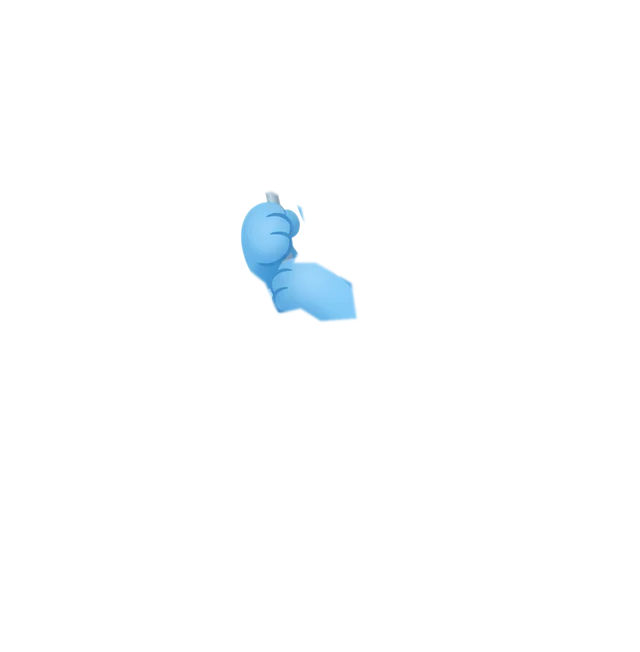
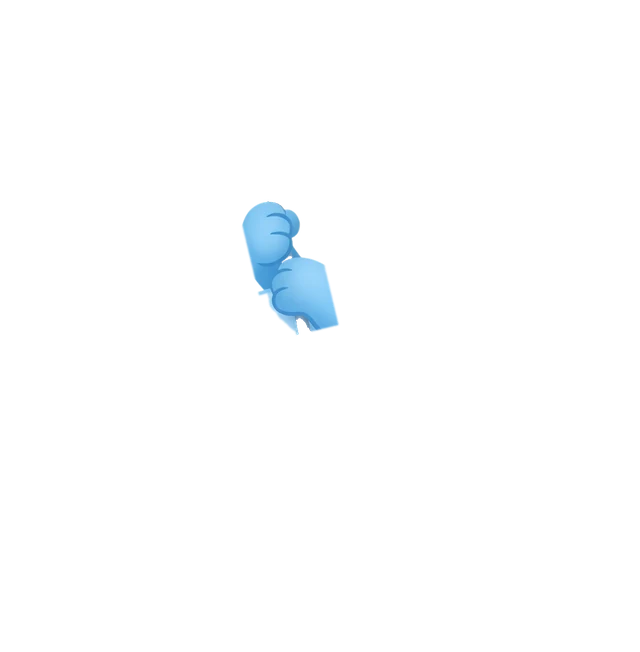
Look back at past questions, cleaner art, phone fixes, no tone quiz
- A back arrow in lessons pages through every finished question as it
  was answered (read-only, speakers still play). Continue walks forward
  again to the live question. Hidden during the speed round.
- Pressing Continue stops any reading still going, so the last answer
  never talks over the next question.
- Removed the "Which tones do you hear?" questions. Tone numbers stay.
- Professor Wunny: no flat line or specks under the chin, and the apple
  arm fades into the shoulder instead of a hard cut. Gentler sway, no
  vertical stretching.
- Flag Wunny: the pole is one clean rod that never splits; only the
  fingers sit over it. The foot no longer moves on its own.
- Gradient words get room for the last letter, so nothing is cut off.
- Detective Wunny sits fully inside the listening card, top left.
- "Show the words" uses the same pill style as the other buttons.
- Speed round: space between the word and the answer buttons.
- Phone: the top bar stays on one row with centred icons; animated
  pictures size from a padding box and images never stretch.

Claude-Session: https://claude.ai/code/session_01Q1QEh8XSev9G2LzzccykJW

diff --git a/public/index.html b/public/index.html
@@ -617,29 +617,27 @@ dialog[open]{animation:rise .25s ease both}
 
 /* Animated Wunny rigs: every layer is the same size, so each pivot is a point in the picture */
 .rig{position:relative;flex:none}
+/* height comes from a padding box (works in every browser, never stretches) */
+.rig::before{content:"";display:block;padding-top:var(--ratio)}
 .rig>img,.rig>div,.rig>div>img,.rig>div>div,.rig>div>div>img,.rig canvas{position:absolute;inset:0;width:100%;height:100%}
 .rig img{max-width:none;pointer-events:none;user-select:none;-webkit-user-drag:none}
-.rig-prof{aspect-ratio:647/743}
-.rig-prof{transform-origin:50% 100%;animation:profBreathe 3.4s ease-in-out infinite}
+.rig-prof{--ratio:114.84%}
 .rig-prof .p-head{transform-origin:53.4% 59.6%;animation:profHead 6.8s ease-in-out infinite}
 .rig-prof .p-arm{transform-origin:37.2% 65%;animation:profArm 3.4s ease-in-out infinite}
-@keyframes profBreathe{0%,100%{transform:none}50%{transform:scale(1.012,1.018)}}
-@keyframes profHead{0%,100%{transform:rotate(0)}22%{transform:rotate(-2.2deg)}48%{transform:rotate(-.4deg)}72%{transform:rotate(2deg)}}
+@keyframes profHead{0%,100%{transform:rotate(0)}22%{transform:rotate(-1.6deg)}48%{transform:rotate(-.3deg)}72%{transform:rotate(1.5deg)}}
 /* idle NPC: the apple dips, bobs back up and settles */
-@keyframes profArm{0%,100%{transform:rotate(0)}38%{transform:rotate(-3.4deg)}58%{transform:rotate(-2.6deg)}70%{transform:rotate(-3deg)}88%{transform:rotate(.4deg)}}
-.rig-kf{aspect-ratio:640/1024}
+@keyframes profArm{0%,100%{transform:rotate(0)}38%{transform:rotate(-2.4deg)}58%{transform:rotate(-1.7deg)}70%{transform:rotate(-2.1deg)}88%{transform:rotate(.2deg)}}
+.rig-kf{--ratio:160%}
 .rig-kf .k-sway{transform-origin:49.8% 76.9%;animation:kfWobble 3.9s ease-in-out infinite}
 .rig-kf .k-arms{transform-origin:40.8% 46.6%;animation:kfArms 1.9s ease-in-out infinite}
 @keyframes kfWobble{0%,100%{transform:rotate(0)}14%{transform:rotate(-2.6deg)}27%{transform:rotate(1.2deg)}38%{transform:rotate(-.9deg)}
   55%{transform:rotate(3deg)}68%{transform:rotate(-1.4deg)}80%{transform:rotate(1.6deg)}90%{transform:rotate(-.5deg)}}
 @keyframes kfArms{0%,100%{transform:none}30%{transform:rotate(-1.6deg) translateY(-.5%)}62%{transform:rotate(1.2deg) translateY(.3%)}}
-.rig-flag{aspect-ratio:640/652}
+.rig-flag{--ratio:101.88%}
 .rig-flag .f-rock{transform-origin:54.8% 58.8%;animation:flRock 4.6s ease-in-out infinite}
-.rig-flag .f-foot{transform-origin:25.9% 51.1%;animation:flKick 1.7s ease-in-out infinite}
 .rig-flag .f-wave{transform-origin:44.2% 41.1%;animation:flWave 1.5s ease-in-out infinite alternate}
 @keyframes flRock{0%,100%{transform:rotate(-2.6deg)}50%{transform:rotate(2.8deg) translateY(-1%)}}
-@keyframes flKick{0%,100%{transform:rotate(0)}35%{transform:rotate(-8deg)}60%{transform:rotate(2deg)}80%{transform:rotate(-3deg)}}
-@keyframes flWave{from{transform:rotate(-7deg)}to{transform:rotate(5deg)}}
+@keyframes flWave{from{transform:rotate(-6deg)}to{transform:rotate(5deg)}}
 .startcard .rig.art,.done-art.rig,.today .rig.side{animation:none}
 .startcard .rig-kf.art{width:118px;justify-self:center}
 .done-art.rig-kf{width:150px}
@@ -647,6 +645,53 @@ dialog[open]{animation:rise .25s ease both}
 .today .side.rig-flag{width:170px;right:6px;bottom:10px}
 .today.rest:has(.rig-flag){padding-right:180px}
 @media (max-width:520px){.startcard .rig-kf.art{width:100px}.today.rest:has(.rig-flag){padding-right:20px;padding-bottom:160px}}
+
+/* gradient words: room for the last letter's overhang and descenders, so nothing is clipped */
+.g,.brand b{padding:0 .12em .1em 0;margin-right:-.12em;-webkit-box-decoration-break:clone;box-decoration-break:clone}
+.brand b{margin-right:0}
+
+/* images never stretch, whatever box they sit in */
+img{height:auto}
+.startcard .art,.ctx-art,.done-art,.note img,.today .side,.contact-side img,.card-form.sent img{align-self:center}
+
+/* top bar on phones: one tidy row, icons centred */
+.icon-btn{flex:none;padding:0;line-height:0}
+.icon-btn svg{display:block;margin:auto}
+.chip{flex:none}
+@media (max-width:520px){
+  .top .wrap{flex-wrap:nowrap;gap:8px;padding-block:12px}
+  .brand{gap:8px;min-width:0}
+  .brand img{width:38px;height:38px;border-radius:12px}
+  .brand b{font-size:20px}
+  .chip{padding:5px 10px;font-size:14px;gap:5px}
+  .chip small{font-size:11px}
+  .icon-btn{width:38px;height:38px}
+  .icon-btn svg{width:19px;height:19px}
+}
+@media (max-width:359px){.brand b{display:none}}
+
+/* listening card: Wunny the detective sits fully inside the card, top left */
+.listen .det{left:16px;top:16px;bottom:auto;width:76px;opacity:1}
+@media (max-width:520px){.listen .det{left:10px;top:12px;width:60px}}
+
+/* "Show the words" matches the other small buttons */
+.listen [data-reveal]{display:inline-flex;align-items:center;gap:8px;min-height:38px;padding:0 16px;border-radius:999px;border:1.5px solid var(--line-2);background:#fff;
+  color:var(--blue-d);font:inherit;font-weight:650;font-size:14px;box-shadow:0 2px 0 var(--line-2);cursor:pointer;text-decoration:none}
+.listen [data-reveal]:active{transform:translateY(2px);box-shadow:none}
+.listen [data-reveal] svg{width:16px;height:16px}
+
+/* speed round: breathing room between the word and the answers */
+#spQ{display:flex;flex-direction:column;gap:16px;margin-top:6px}
+#spQ .sp-prompt{margin-bottom:4px}
+
+/* looking back at earlier questions */
+.lhead .wrap{gap:10px}
+#backQ svg{width:20px;height:20px}
+#stage.review .opt,#stage.review .tile,#stage.review .mt,#stage.review [data-tile],#stage.review [data-ml],#stage.review [data-mr],#stage.review [data-reveal]{pointer-events:none}
+#stage.review .wrap>*{animation:none}
+.lookback{display:flex;align-items:center;gap:10px;flex-wrap:wrap}
+.lookback .pill{background:#fff7e6;border-color:#f3cf86;color:#8a5a00}
+.lookback .pill .dot{background:#f2a516;box-shadow:0 0 0 4px rgba(242,165,22,.2)}
 
 /* volume sliders */
 .vol-row{display:grid;grid-template-columns:minmax(0,1fr) 46px;align-items:center;gap:4px 12px;padding:10px 0;border-bottom:1px solid var(--line)}
@@ -669,6 +714,7 @@ dialog[open]{animation:rise .25s ease both}
 
 <section id="lesson" class="view" hidden>
   <header class="lhead"><div class="wrap">
+    <button class="icon-btn" id="backQ" type="button" aria-label="Look back at the previous question" title="Previous question" hidden><svg viewBox="0 0 24 24" fill="none" stroke="currentColor" stroke-width="2.4" stroke-linecap="round" stroke-linejoin="round"><path d="M15 5l-7 7 7 7"/></svg></button>
     <button class="icon-btn" id="quit" type="button" aria-label="Quit lesson"><svg viewBox="0 0 24 24" fill="none" stroke="currentColor" stroke-width="2.4" stroke-linecap="round"><path d="M6 6l12 12M18 6L6 18"/></svg></button>
     <div class="prog" id="prog" role="progressbar" aria-label="Lesson progress" aria-valuemin="0" aria-valuemax="100" aria-valuenow="0"><span></span></div>
     <div class="combo" id="combo" aria-live="polite"></div>
@@ -847,7 +893,7 @@ const profRig = (cls="") => `<div class="rig rig-prof ${cls}" role="img" aria-la
 const kungfuRig = (cls="") => `<div class="rig rig-kf ${cls}" role="img" aria-label="Wunny in a yellow kung fu shirt, balancing on a wooden post with nunchucks">
   ${rigImg("kungfu-stick","k-stick")}<div class="k-sway">${rigImg("kungfu-body","k-body")}${rigImg("kungfu-arms","k-arms")}</div></div>`;
 const flagRig = (cls="") => `<div class="rig rig-flag ${cls}" role="img" aria-label="Wunny rolling on his back, waving a Hong Kong flag">
-  <div class="f-rock">${rigImg("flag-foot","f-foot")}${rigImg("flag-body","f-body")}<div class="f-wave">${rigImg("flag-pole","f-pole")}<canvas class="f-cloth" aria-hidden="true"></canvas></div>${rigImg("flag-hands","f-hands")}</div></div>`;
+  <div class="f-rock">${rigImg("flag-body","f-body")}<div class="f-wave">${rigImg("flag-pole","f-pole")}<canvas class="f-cloth" aria-hidden="true"></canvas></div>${rigImg("flag-hands","f-hands")}</div></div>`;
 
 /* The flag cloth ripples: the picture is redrawn in thin upright strips, each nudged up or down along a travelling wave.
    Strips near the pole hardly move; the free end moves most. */
@@ -859,14 +905,14 @@ function flagLoop(){
   if(!FLAG.img){ FLAG.img = new Image(); FLAG.img.onload = ()=>{ FLAG.ready = true; flagLoop(); }; FLAG.img.src = "art/flag-cloth.webp"; return; }
   if(!FLAG.ready) return;
   const still = calm(), t = performance.now()/1000, im = FLAG.img, IW = im.naturalWidth, IH = im.naturalHeight;
-  const POLE = .41*IW, FREE = .04*IW, STEP = 3;
+  const POLE = .372*IW, FREE = .049*IW, END = .45*IW, STEP = 3;
   cs.forEach(c=>{
     const r = c.getBoundingClientRect(); if(!r.width) return;
     const dpr = Math.min(2, window.devicePixelRatio||1), W = Math.round(r.width*dpr), H = Math.round(r.height*dpr);
     if(c.width!==W || c.height!==H){ c.width = W; c.height = H; }
     const x = c.getContext("2d"), k = W/IW;
     x.clearRect(0,0,W,H);
-    for(let sx=Math.floor(FREE)-6; sx<POLE+8; sx+=STEP){
+    for(let sx=Math.floor(FREE)-6; sx<END; sx+=STEP){
       const d = Math.max(0, Math.min(1, (POLE-sx)/(POLE-FREE)));
       const ph = d*5.2 - t*6.2;
       const dy = still ? 0 : Math.sin(ph) * d * IH*.016;
@@ -874,7 +920,7 @@ function flagLoop(){
     }
     if(!still){   // soft light and shade in the folds
       x.globalCompositeOperation = "source-atop";
-      for(let sx=Math.floor(FREE)-6; sx<POLE+8; sx+=STEP){
+      for(let sx=Math.floor(FREE)-6; sx<END; sx+=STEP){
         const d = Math.max(0, Math.min(1, (POLE-sx)/(POLE-FREE))), s = Math.cos(d*5.2 - t*6.2) * d;
         x.fillStyle = s > 0 ? `rgba(255,255,255,${(s*.13).toFixed(3)})` : `rgba(60,0,0,${(-s*.16).toFixed(3)})`;
         x.fillRect(sx*k, 0, STEP*k+.6, H);
@@ -1386,10 +1432,9 @@ function buildSteps(L, mode){
   const mid = mode==="new" ? [{t:"match", items:it}] : [];
   return s.concat(mid, spread(pr), [{t:"speed"}]);
 }
-// Tone training, sentence listening and sentence building, using only this lesson's words.
+// Sentence listening and sentence building, using only this lesson's words.
 function extras(it){
   const out = [];
-  shuffle(it.filter(toneable)).slice(0,3).forEach(x=>out.push({t:"tone", it:x}));
   shuffle(it).slice(0,2).forEach(x=>out.push({t:"sentence", it:x}));
   shuffle(it.filter(buildable)).slice(0,2).forEach(x=>out.push({t:"build", it:x}));
   return out;
@@ -1398,7 +1443,7 @@ function extras(it){
 function startLesson(i, mode){
   const L = ALL[i];
   $("#combo").textContent = "";
-  Q = {L, mode, steps:buildSteps(L,mode), i:0, sel:null, checked:false, good:0, graded:0, combo:0, xp:0, retries:{}, fixAnnounced:false, t0:Date.now()};
+  Q = {L, mode, steps:buildSteps(L,mode), i:0, hist:[], view:null, live:null, sel:null, checked:false, good:0, graded:0, combo:0, xp:0, retries:{}, fixAnnounced:false, t0:Date.now()};
   audioCtx();
   if(V.ok){ try{ speechSynthesis.cancel(); }catch(e){} }
   try{ AUD.pause(); }catch(e){}
@@ -1445,6 +1490,7 @@ function resetBar(){
 function renderStep(){
   const st = cur(), it = st.it, L = Q.L;
   Q.sel = null; Q.checked = false;
+  $("#stage").classList.remove("review");
   setProgress(); resetBar();
   const tag = st.retry ? "Fix a mistake" : st.review ? "Quick review" : st.t==="tone" ? "Tone training" : st.t==="build" ? "Build the sentence" : st.t==="sentence" ? "Sentence listening" : null;
   const tagH = tag ? `<span class="pill"><span class="dot"></span>${tag}</span>` : "";
@@ -1527,10 +1573,12 @@ function renderStep(){
   const p = $("#primary"); p.textContent = primary; p.disabled = needSel;
   const hd = stage.querySelector(".qh"); if(hd){ hd.tabIndex = -1; hd.focus({preventScroll:true}); }
   if(say) speak(say, false, stage.querySelector(".main"));
+  backState();
 }
 
 function select(k){
   const st0 = Q && cur(); if(!st0) return;
+  if(Q.view!=null) return;
   if(st0.t==="speed") return speedPick(k);
   if(Q.checked) return;
   const st = st0; if(!st.opts || !st.opts[k]) return;
@@ -1557,7 +1605,7 @@ function check(){
   if(st.t==="context"){ const s = $("#sent .szh"); if(s) s.innerHTML = fullSentence(it); const j = $("#sent .sjp"); if(j){ j.innerHTML = jpHTML(it.ex.jp); j.hidden = false; } }
   if(st.t==="sentence"){ const r = $("#reveal"); if(r) r.hidden = false; const rb = $("[data-reveal]"); if(rb) rb.hidden = true; }
   showFeedback(ok, it);
-  setTimeout(()=>speak(st.t==="context" || st.t==="sentence" ? it.ex.zh : it.zh), 380);
+  clearTimeout(Q.sayT); Q.sayT = setTimeout(()=>speak(st.t==="context" || st.t==="sentence" ? it.ex.zh : it.zh), 380);
 }
 
 function showFeedback(ok, it, custom, line2){
@@ -1572,6 +1620,7 @@ function showFeedback(ok, it, custom, line2){
 
 function onPrimary(){
   if(!Q) return;
+  if(Q.view!=null) return lookForward();
   const st = cur();
   if(st.t==="start" || st.t==="intro") return next();
   if(st.t==="speed") return Q.checked ? next() : speedStart();
@@ -1585,10 +1634,78 @@ function onPrimary(){
   if(!Q.checked){ if(Q.sel==null) return; check(); } else next();
 }
 function next(){
+  hush();
+  const done = cur();
+  if(done && done.t!=="start" && done.t!=="speed"){
+    Q.hist.push({html:$("#stageIn").innerHTML, fb:$("#fb").innerHTML, cls:["good","bad"].filter(c=>$("#bar").classList.contains(c)), it:done.it});
+  }
   clearInterval(Q.mT); clearInterval(Q.spT); Q.sp = null; Q.m = null;
   Q.i++;
   if(Q.i >= Q.steps.length) return finish();
   renderStep();
+}
+
+/* ---------- Stop talking ---------- */
+// Pressing Continue (or going back) cuts off any reading that is still going, so it never runs into the next question.
+function hush(){
+  if(Q) clearTimeout(Q.sayT);
+  try{ AUD.onended = AUD.onerror = null; AUD.pause(); }catch(e){}
+  try{ if(V.ok) speechSynthesis.cancel(); }catch(e){}
+  document.querySelectorAll(".spk.on,.bigplay.on").forEach(b=>b.classList.remove("on"));
+  duck(false);
+}
+
+/* ---------- Looking back at earlier questions ----------
+   Every finished question is kept as it looked when answered. The back arrow pages through them,
+   read-only (the speaker buttons still play); Continue walks forward again to where the learner left off. */
+function speedLive(){ const st = cur(); return st && st.t==="speed" && Q.sp && !Q.checked; }
+function backState(){
+  const b = $("#backQ"); if(!b || !Q) return;
+  const at = Q.view==null ? Q.hist.length : Q.view;
+  b.hidden = !Q.hist.length || speedLive();
+  b.disabled = at <= 0;
+}
+function lookBack(){
+  if(!Q || !Q.hist.length || speedLive()) return;
+  if(Q.view===0) return;
+  hush();
+  if(Q.view==null){
+    const frag = document.createDocumentFragment(), si = $("#stageIn");
+    while(si.firstChild) frag.appendChild(si.firstChild);
+    const p = $("#primary");
+    Q.live = {frag, fb:$("#fb").innerHTML, cls:["good","bad"].filter(c=>$("#bar").classList.contains(c)),
+      ptxt:p.textContent, pdis:p.disabled, pcls:["ok","no"].filter(c=>p.classList.contains(c)), phid:p.hidden, ctx:$("#ctxBtn").hidden, peek:$("#barPeek").hidden,
+      scroll:$("#stage").scrollTop};
+    Q.view = Q.hist.length - 1;
+  } else Q.view--;
+  showLook();
+}
+function showLook(){
+  const h = Q.hist[Q.view], si = $("#stageIn"), n = Q.hist.length;
+  $("#stage").classList.add("review");
+  si.innerHTML = `<div class="lookback"><span class="pill"><span class="dot"></span>Looking back · ${Q.view+1} of ${n}</span></div>` + h.html;
+  si.querySelectorAll(".opt").forEach(b=>b.disabled = true);
+  si.querySelectorAll("[id]").forEach(e=>e.removeAttribute("id"));
+  $("#stage").scrollTop = 0;
+  const bar = $("#bar"); bar.classList.remove("good","bad"); h.cls.forEach(c=>bar.classList.add(c));
+  $("#fb").innerHTML = h.fb; $("#barPeek").hidden = true; $("#ctxBtn").hidden = true;
+  const p = $("#primary"); p.hidden = false; p.disabled = false; p.classList.remove("ok","no");
+  p.textContent = Q.view >= n-1 ? "Back to my question" : "Next";
+  backState();
+}
+function lookForward(){
+  hush();
+  if(Q.view < Q.hist.length-1){ Q.view++; return showLook(); }
+  // back to the live question, exactly as it was left
+  const L = Q.live, si = $("#stageIn");
+  si.innerHTML = ""; si.appendChild(L.frag);
+  $("#stage").classList.remove("review"); $("#stage").scrollTop = L.scroll;
+  const bar = $("#bar"); bar.classList.remove("good","bad"); L.cls.forEach(c=>bar.classList.add(c));
+  $("#fb").innerHTML = L.fb; $("#ctxBtn").hidden = L.ctx; $("#barPeek").hidden = L.peek;
+  const p = $("#primary"); p.textContent = L.ptxt; p.disabled = L.pdis; p.hidden = L.phid; p.classList.remove("ok","no"); L.pcls.forEach(c=>p.classList.add(c));
+  Q.view = null; Q.live = null;
+  const st = cur(); if(st && st.t==="match" && Q.m && !Q.checked) afterRender(st);
+  backState();
 }
 
 /* ---------- Context dialog ---------- */
@@ -1666,7 +1783,9 @@ document.addEventListener("click", e=>{
   if(t.closest("#primary")) return onPrimary();
   if(t.closest("#ctxBtn")) return openCtx();
   if(t.closest("#quit")) return $("#quitDlg").showModal();
-  if(t.closest("#quitYes")){ $("#quitDlg").close(); try{ speechSynthesis.cancel(); }catch(err){} if(Q){ clearInterval(Q.mT); clearInterval(Q.spT); } Q = null; show("home"); return; }
+  if(t.closest("#backQ")) return lookBack();
+  if(Q && Q.view!=null && t.closest("#stage") && (t.closest("[data-tile]") || t.closest("[data-ml]") || t.closest("[data-mr]") || t.closest("[data-reveal]"))) return;
+  if(t.closest("#quitYes")){ $("#quitDlg").close(); hush(); if(Q){ clearInterval(Q.mT); clearInterval(Q.spT); } Q = null; show("home"); return; }
   const tile = t.closest("[data-tile]"); if(tile){ tilePick(+tile.dataset.tile); return; }
   const ml = t.closest("[data-ml]"); if(ml){ matchPick("l", +ml.dataset.ml); return; }
   const mr = t.closest("[data-mr]"); if(mr){ matchPick("r", +mr.dataset.mr); return; }
@@ -1730,6 +1849,7 @@ document.addEventListener("keydown", e=>{
   if(!Q || $("#lesson").hidden || document.querySelector("dialog[open]")) return;
   if(e.metaKey || e.ctrlKey || e.altKey) return;
   if(/^[1-6]$/.test(e.key)){ select(+e.key-1); return; }
+  if(e.key==="ArrowLeft" && !e.target.closest("input,select,textarea") && !$("#backQ").hidden){ e.preventDefault(); lookBack(); return; }
   if(e.key==="Enter" && !e.target.closest("button")){ e.preventDefault(); onPrimary(); }
 });
 window.addEventListener("hashchange", route);
@@ -2091,6 +2211,7 @@ function speedStart(){
     <div class="sp-bar"><span id="spBar"></span></div><div id="spQ"></div></div>`;
   speedNext();
   clearInterval(Q.spT); Q.spT = setInterval(speedTick, 100);
+  hush(); backState();
 }
 function speedPool(){
   const own = Q.L.items, older = shuffle(ALL.slice(0, Q.L.i).flatMap(l=>l.items)).slice(0, 12);
@@ -2129,7 +2250,7 @@ function speedDone(){
     <span class="pill"><span class="dot"></span>Time's up</span>
     <h2 class="qh" style="font-size:clamp(30px,5.4vw,44px)"><span class="g">${sc}</span> right in 60 seconds</h2>
     <p class="lead">${best && prev!=null ? `New best! Your old record was ${prev}.` : best ? "That's your first record. Beat it next time!" : `Your best is ${prev}. So close!`} You earned ${sc*2} XP.</p></div>`;
-  Q.checked = true;
+  Q.checked = true; setTimeout(backState);
   if(best && sc > 0){ sfxWin(); sparkle($(".sp-done h2")); } else sfxGood();
   const p = $("#primary"); p.hidden = false; p.textContent = "Continue"; p.disabled = false; p.classList.add("ok"); p.focus({preventScroll:true});
 }
